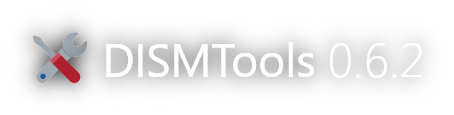
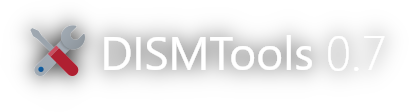
Prepare for next version

Changed region(s): [[0.0587, 0.1875, 0.9095, 0.75], [0.8215, 0.375, 0.8509, 0.4018]]

diff --git a/README.md b/README.md
@@ -266,7 +266,7 @@ We continue the development of the next version in the Preview branch. To go to 
 
 However, if you want to download the latest release AS SOON AS the project is built with new changes, you can download the [nightly installer](https://github.com/CodingWonders/dt-nightly-installers/raw/refs/heads/main/dt_pre_2542/dt_setup.exe).
 
-**NOTE:** this branch contains release candidate builds of DISMTools 0.6.2, and will be deleted once this version gets published as a stable release
+<!-- **NOTE:** this branch contains release candidate builds of DISMTools 0.7, and will be deleted once this version gets published as a stable release -->
 
 ## Stay in touch
 
